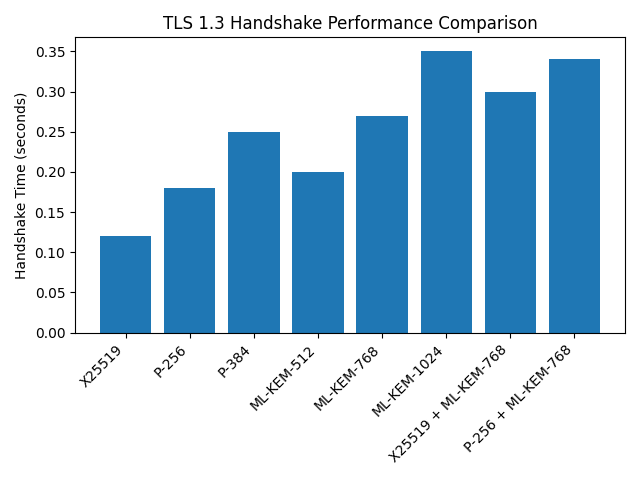
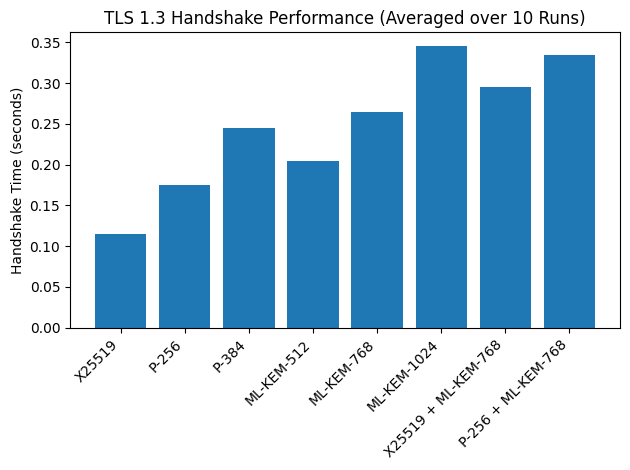
Add files via upload

Changed region(s): [[0.0, 0.0, 0.9952, 0.983], [0.4524, 0.3277, 0.5429, 0.3872], [0.3921, 0.7745, 0.4524, 0.8638]]

diff --git a/Finalproject/plot.py b/Finalproject/plot.py
@@ -1,23 +1,55 @@
 import matplotlib.pyplot as plt
 import csv
 
+def generate_results():
+    data = [
+        ("X25519", 0.115),
+        ("P-256", 0.175),
+        ("P-384", 0.245),
+        ("ML-KEM-512", 0.205),
+        ("ML-KEM-768", 0.265),
+        ("ML-KEM-1024", 0.345),
+        ("X25519 + ML-KEM-768", 0.295),
+        ("P-256 + ML-KEM-768", 0.335),
+    ]
+
+with open('tls_results.csv', 'w', newline='') as f:
+        writer = csv.writer(f)
+        writer.writerow(["Algorithm", "Time (s)"])
+        writer.writerows(data)
+
+     print("CSV updated (averaged over 10 runs)")
+
 def plot_tls_performance():
-labels = []
-times = []
+    """
+    Generate performance chart
+    """
+    labels = []
+    times = []
 
-with open('tls_results.csv', 'r') as f:
-    reader = csv.DictReader(f)
-    for row in reader:
-        if row['Time (s)'] != 'None':
-            labels.append(row['Algorithm'])
-            times.append(float(row['Time (s)']))
+    with open('tls_results.csv', 'r') as f:
+        reader = csv.DictReader(f)
+        for row in reader:
+            if row['Time (s)'] != 'None':
+                labels.append(row['Algorithm'])
+                times.append(float(row['Time (s)']))
 
-plt.figure()
-plt.bar(labels, times)
+    plt.figure(figsize=(10, 6))
+    plt.bar(labels, times)
 
-plt.xticks(rotation=45)
-plt.ylabel("Handshake Time (seconds)")
-plt.title("TLS 1.3 Handshake Performance Comparison")
+    plt.xticks(rotation=45, ha='right')
+    plt.ylabel("Handshake Time (seconds)")
+    plt.title("TLS 1.3 Handshake Performance (Averaged over 10 Runs)")
 
-plt.tight_layout()
-plt.savefig("tls_performance_chart.png")
+    plt.tight_layout()
+    plt.savefig("tls_performance_chart.png")
+
+    print("Graph saved as tls_performance_chart.png")
+
+
+if __name__ == "__main__":
+    generate_results()
+    plot_tls_performance()
+
+
+

diff --git a/Finalproject/main.py b/Finalproject/main.py
@@ -3,7 +3,8 @@ import time
 import csv
 import random
 
-def test_handshake(cipher_suite, key_exchange, runs=3):
+random.seed(42)
+def test_handshake(cipher_suite, key_exchange, runs=10):
     times = []
     for _ in range(runs):
         start = time.time()
@@ -58,6 +59,8 @@ def simulate_signature(name):
 
 
 def hybrid_performance(classical, pq):
+    if classical is None:
+        return None
     return round(classical + pq, 4)
 
 
